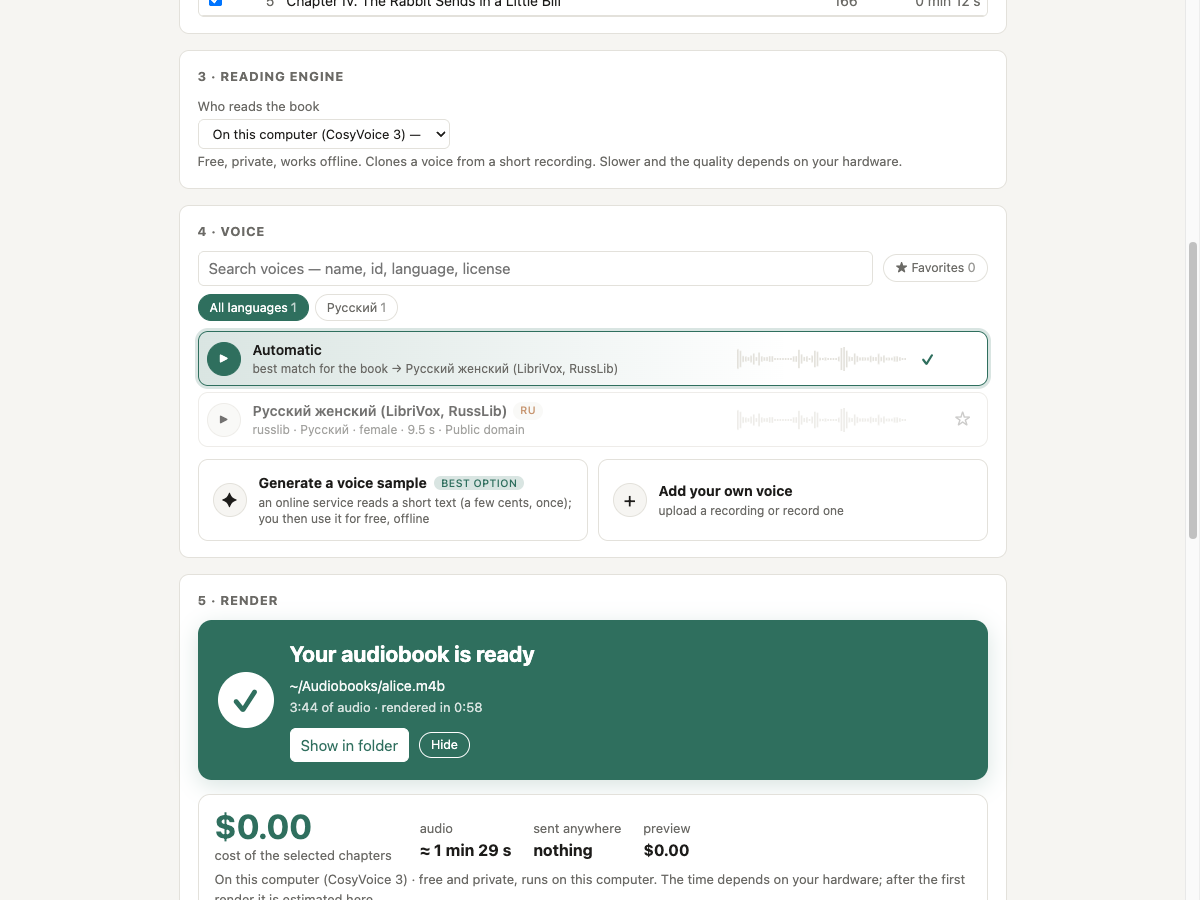
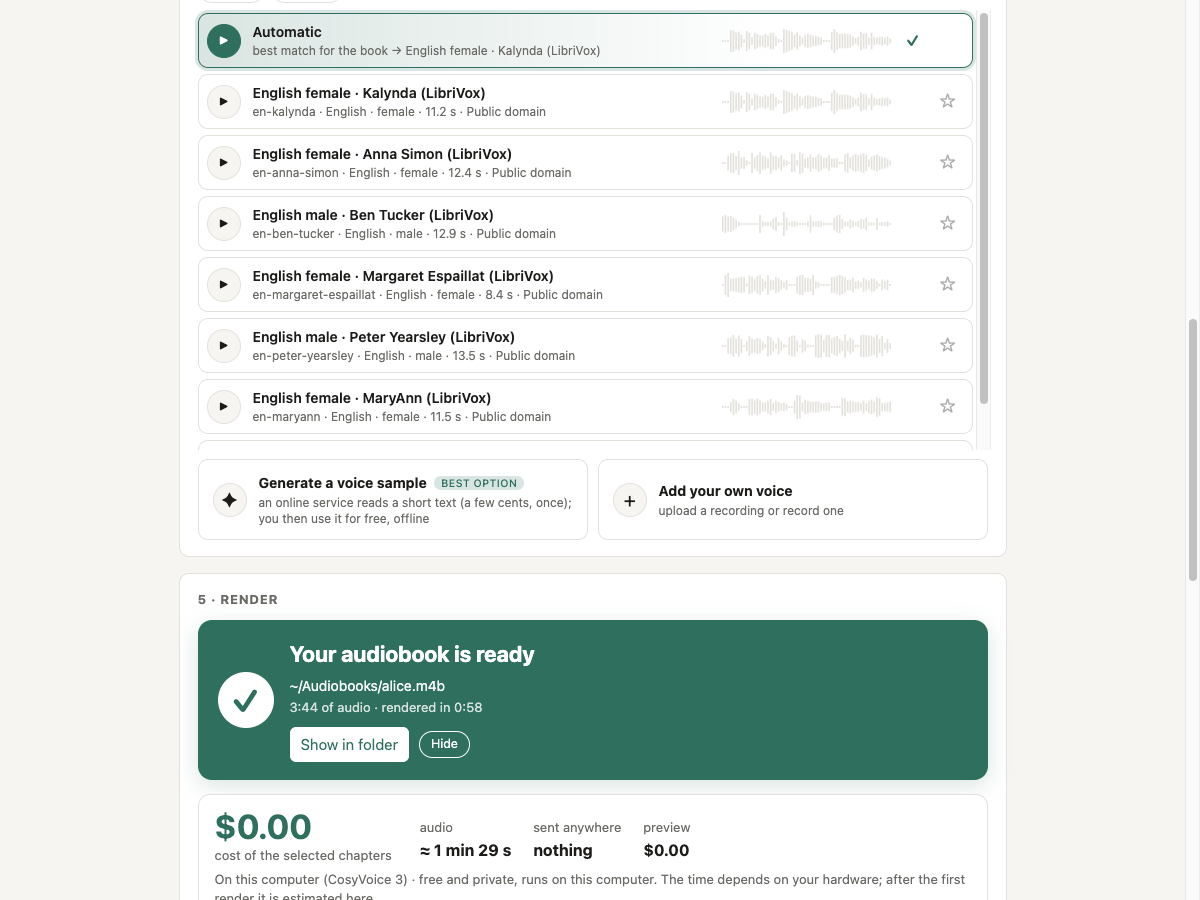
Screenshots: English studio with the new bundled voice library

diff --git a/README.md b/README.md
@@ -269,11 +269,11 @@ redacted support bundle. Pluggable providers via entry points.
 <table>
 <tr>
 <td width="50%"><img src="docs/img/studio-book.png" alt="A loaded book with its chapters and estimated length"><br><sub>Drop a book: chapters, language, cover, details and estimated length.</sub></td>
-<td width="50%"><img src="docs/img/studio-voices.png" alt="Reading engine and voice gallery"><br><sub>Choose the engine and a voice: audition, favourites, record your own or generate one.</sub></td>
+<td width="50%"><img src="docs/img/studio-voices.png" alt="Reading engine and voice gallery"><br><sub>The voice for your book: the best match is picked automatically; audition others, record your own or generate one.</sub></td>
 </tr>
 <tr>
 <td width="50%"><img src="docs/img/studio-done.png" alt="The audiobook is ready card"><br><sub>Done: the file, its length and how long it took.</sub></td>
-<td width="50%"><img src="docs/img/studio-ru.png" alt="The studio in Russian"><br><sub>The same studio in Russian, one of nine interface languages.</sub></td>
+<td width="50%"><img src="docs/img/studio-gallery.png" alt="Voice gallery with 64 bundled voices filtered by language"><br><sub>The bundled voice library: filter by language and sex, audition, star favourites.</sub></td>
 </tr>
 </table>
 
